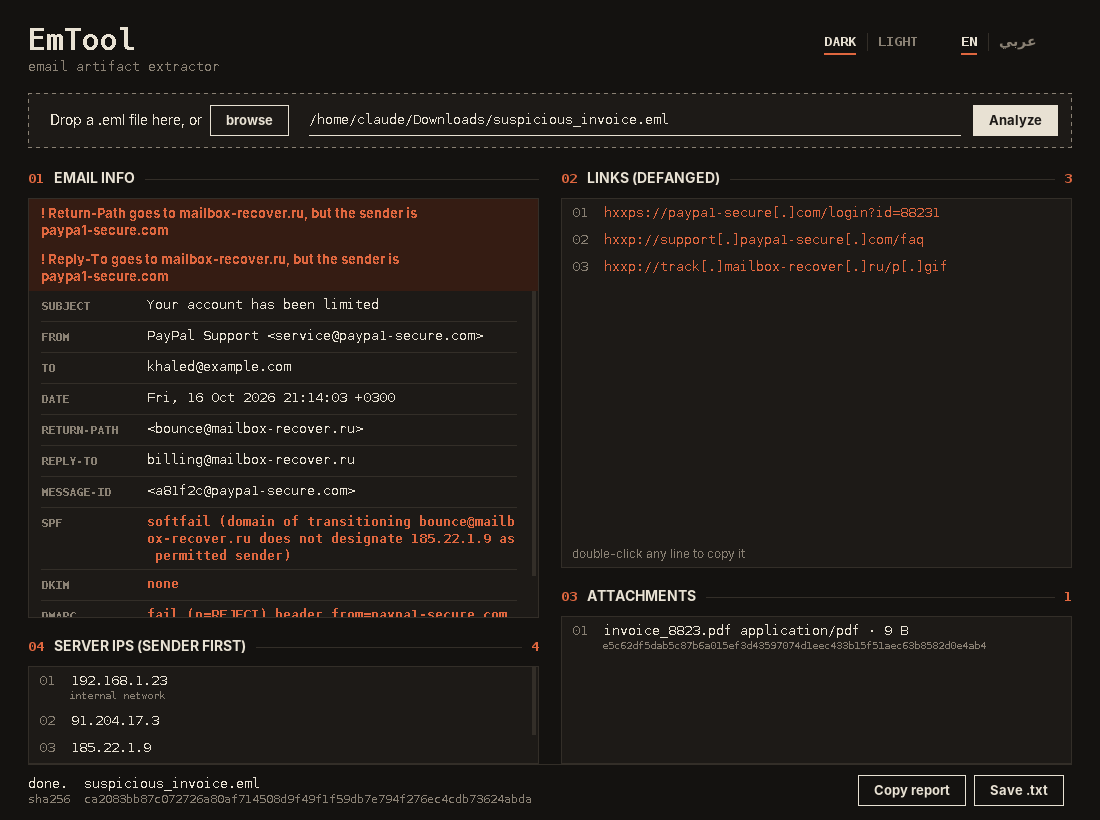
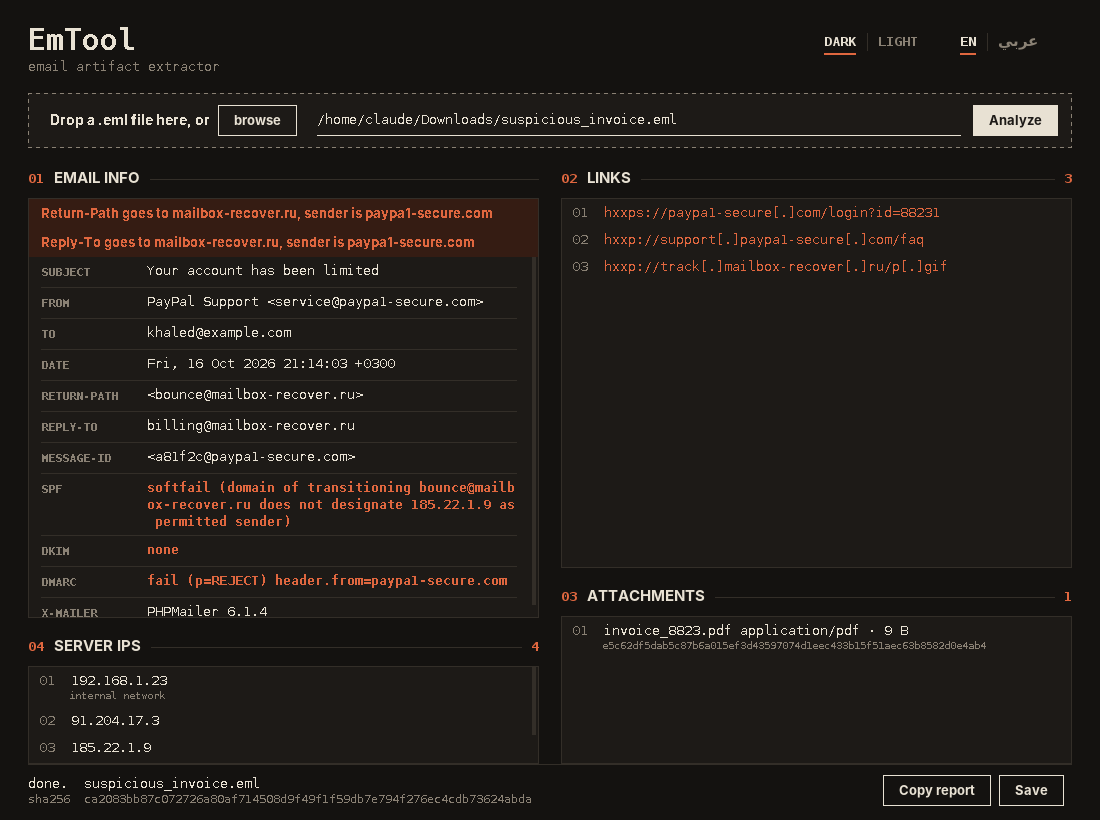
Bolder UI font, shorter labels

diff --git a/EmAnalizeTool/EmToolGUI.java b/EmAnalizeTool/EmToolGUI.java
@@ -37,10 +37,10 @@ public class EmToolGUI extends JFrame {
     static final Font MONO_BOLD = new Font(Font.MONOSPACED, Font.BOLD, 13);
     static final Font MONO_SMALL = new Font(Font.MONOSPACED, Font.PLAIN, 11);
     static final Font MARK      = new Font(Font.MONOSPACED, Font.BOLD, 30);
-    static final Font UI        = new Font(UI_FAMILY, Font.PLAIN, 14);
-    static final Font UI_SMALL  = new Font(UI_FAMILY, Font.PLAIN, 12);
+    static final Font UI        = new Font(UI_FAMILY, Font.BOLD, 14);
+    static final Font UI_SMALL  = new Font(UI_FAMILY, Font.BOLD, 12);
     static final Font UI_BOLD   = new Font(UI_FAMILY, Font.BOLD, 13);
-    static final Font UI_TITLE  = new Font(UI_FAMILY, Font.BOLD, 14);
+    static final Font UI_TITLE  = new Font(UI_FAMILY, Font.BOLD, 15);
 
     // strings
     static final String[][] TEXT = {
@@ -49,23 +49,23 @@ public class EmToolGUI extends JFrame {
         {"browse",    "browse",                                  "اختر ملف"},
         {"analyze",   "Analyze",                                 "حلّل"},
         {"headers",   "Email info",                              "معلومات الإيميل"},
-        {"links",     "Links (defanged)",                        "الروابط (معطّلة)"},
+        {"links",     "Links",                                   "الروابط"},
         {"attach",    "Attachments",                             "المرفقات"},
-        {"ips",       "Server IPs (sender first)",               "عناوين IP (من المرسل للمستلم)"},
-        {"noattach",  "No attachments.",                         "ما فيه مرفقات."},
-        {"noips",     "No IPs found.",                           "ما لقيت عناوين IP."},
+        {"ips",       "Server IPs",                              "عناوين IP"},
+        {"noattach",  "None",                                    "ما فيه"},
+        {"noips",     "None",                                    "ما فيه"},
         {"copy",      "Copy report",                             "نسخ التقرير"},
-        {"save",      "Save .txt",                               "حفظ كملف نصي"},
-        {"ready",     "ready. pick an .eml file to start",       "جاهز. اختر ملف الإيميل عشان نبدأ"},
+        {"save",      "Save",                                    "حفظ"},
+        {"ready",     "pick an .eml file",                       "اختر ملف الإيميل"},
         {"notfound",  "Error 404 |E!  file not found",           "Error 404 |E!  الملف مو موجود"},
         {"failed",    "could not read this file: ",              "ما قدرت أفتح الملف: "},
         {"done",      "done.",                                   "تم."},
         {"copied",    "copied",                                  "تم النسخ"},
         {"saved",     "saved to ",                               "انحفظ في "},
-        {"empty",     "nothing here yet",                        "لسا ما اخترت ملف"},
-        {"hint",      "double-click any line to copy it",        "دبل كلك على أي سطر عشان تنسخه"},
+        {"empty",     "empty",                                   "فاضي"},
+        {"hint",      "double-click to copy",                    "دبل كلك للنسخ"},
         {"private",   "internal network",                        "شبكة داخلية"},
-        {"mismatch",  "! %s goes to %s, but the sender is %s",  "! %s يروح لـ %s، والمرسل %s"},
+        {"mismatch",  "%s goes to %s, sender is %s",            "%s يروح لـ %s والمرسل %s"},
     };
     static final Map<String, String[]> T = new HashMap<>();
     static { for (String[] r : TEXT) T.put(r[0], new String[]{r[1], r[2]}); }
@@ -106,7 +106,6 @@ public class EmToolGUI extends JFrame {
     final CopyList ipList = new CopyList(INK);
     final JLabel status = new JLabel();
     final JLabel hashLabel = new JLabel();
-    final JLabel hintLabel = new JLabel();
     String statusKey = "ready", statusExtra = "";
     boolean statusError = false;
 
@@ -220,10 +219,6 @@ public class EmToolGUI extends JFrame {
         JPanel lInner = new JPanel(new BorderLayout());
         lInner.setBackground(SHEET);
         lInner.add(plainScroll(linkList), BorderLayout.CENTER);
-        hintLabel.setFont(UI_SMALL);
-        hintLabel.setForeground(MUTED);
-        hintLabel.setBorder(new EmptyBorder(6, 10, 6, 10));
-        lInner.add(hintLabel, BorderLayout.SOUTH);
 
         JPanel attCol = column(aHead, plainScroll(attachList));
         attCol.setPreferredSize(new Dimension(100, 180));
@@ -490,7 +485,7 @@ public class EmToolGUI extends JFrame {
         lHead.text = t("links");
         aHead.text = t("attach");
         iHead.text = t("ips");
-        hintLabel.setText(t("hint"));
+        for (CopyList l : new CopyList[]{linkList, attachList, ipList}) l.setToolTipText(t("hint"));
         status.setText(t(statusKey) + statusExtra);
         status.setForeground(statusError ? RUST : INK);
         tagline.setFont(arabic ? UI : MONO);

diff --git a/README.md b/README.md
@@ -116,7 +116,7 @@ The interface is designed around the Thmanyah typeface. Download it from Thmanya
 ```
 .eml ──> javax.mail MimeMessage
           ├─ headers ─────────> email info, SPF / DKIM / DMARC, domain check
-          ├─ Received chain ──> server IPs (reversed: sender first)
+          ├─ Received chain ──> server IPs, sender first
           └─ MIME tree
                ├─ text/plain, text/html ──> URL regex ──> defang
                └─ named parts ────────────> name, type, size, SHA-256
